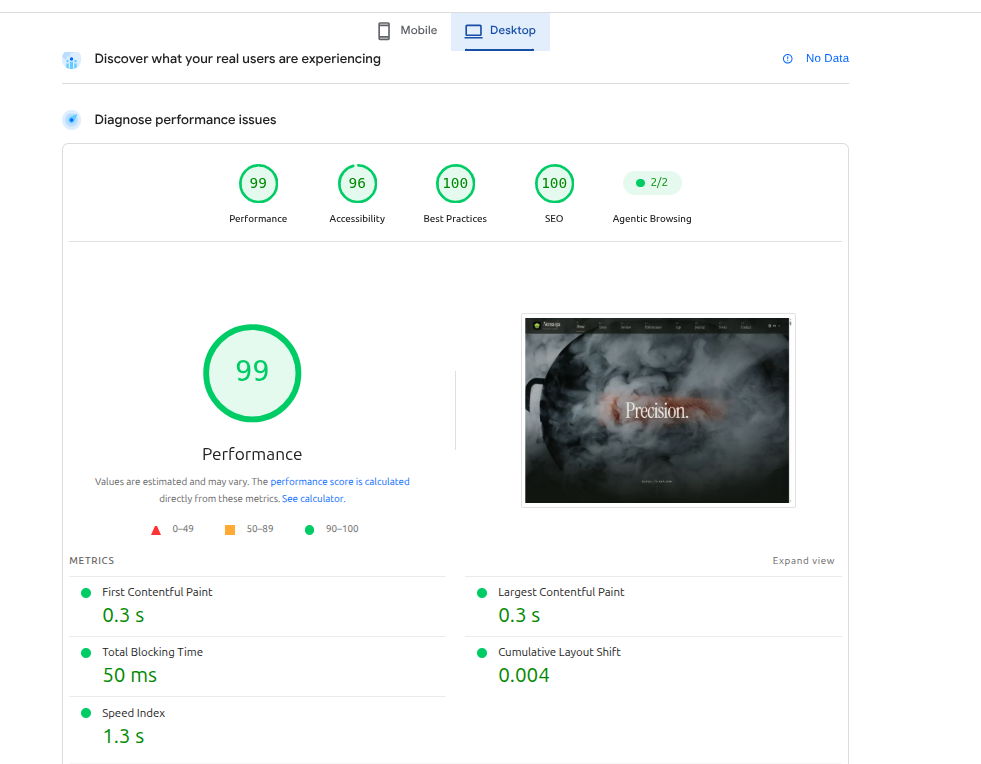
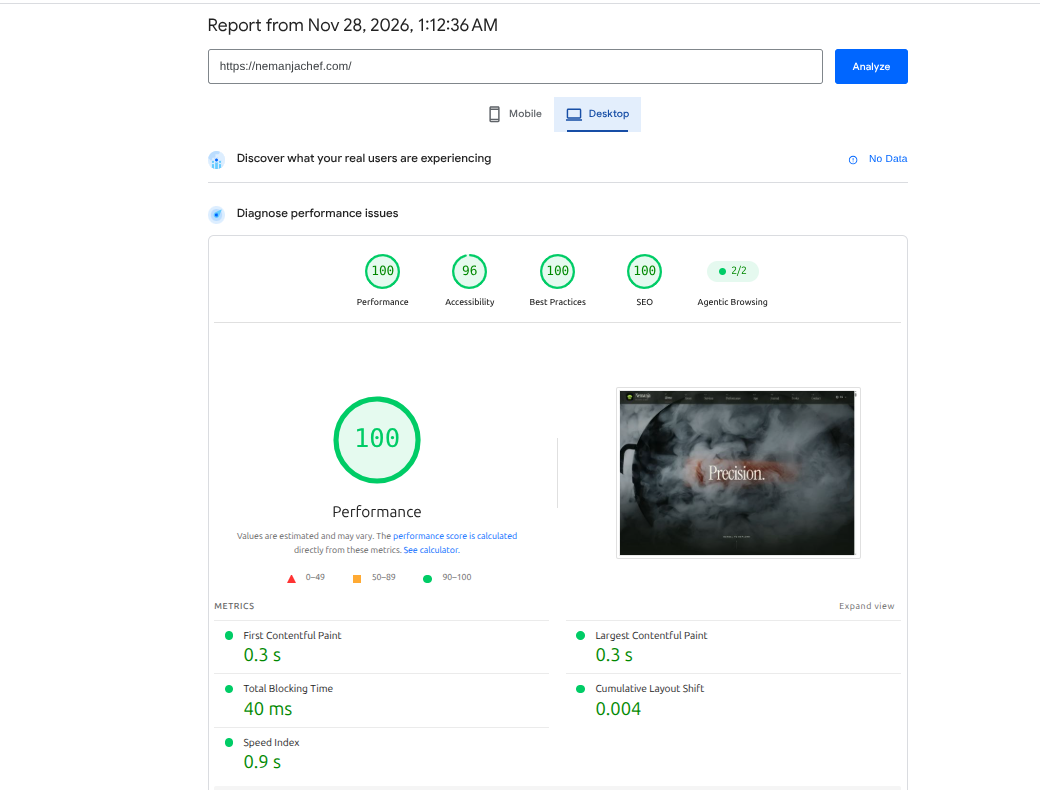
Update production Lighthouse benchmarks and screenshots

diff --git a/README.md b/README.md
@@ -22,7 +22,7 @@ An immersive digital experience combining scroll-driven visual narratives, custo
 ## Production Performance
 
 ![Desktop Performance](https://img.shields.io/badge/Desktop_Performance-100-00C853?style=for-the-badge)
-![Mobile Performance](https://img.shields.io/badge/Mobile_Performance-94-00C853?style=for-the-badge)
+![Mobile Performance](https://img.shields.io/badge/Mobile_Performance-97-00C853?style=for-the-badge)
 
 The website underwent a dedicated performance engineering phase focused on critical rendering, JavaScript execution, animation lifecycle management and progressive asset delivery.
 
@@ -35,24 +35,24 @@ The website underwent a dedicated performance engineering phase focused on criti
 
 | Metric | Desktop | Mobile |
 |---|---:|---:|
-| Performance | 100 | 94 |
+| Performance | 100 | 97 |
 | Accessibility | 96 | 95 |
 | Best Practices | 100 | 100 |
 | SEO | 100 | 100 |
 | First Contentful Paint | 0.3 s | 1.0 s |
 | Largest Contentful Paint | 0.3 s | 1.0 s |
-| Total Blocking Time | 40 ms | 240 ms |
+| Total Blocking Time | 40 ms | 180 ms |
 | Cumulative Layout Shift | 0.004 | 0.002 |
-| Speed Index | 1.0 s | 3.7 s |
+| Speed Index | 0.9 s | 2.4 s |
 
 ### Before & After Optimization
 
 | Metric | Before | After | Improvement |
 |---|---:|---:|---:|
 | Desktop Performance | 66 | 100 | +34 points |
-| Mobile Performance | 83 | 94 | +11 points |
+| Mobile Performance | 83 | 97 | +14 points |
 | Desktop TBT | 1,000 ms | 40 ms | 96% reduction |
-| Mobile TBT | 640 ms | 240 ms | 62.5% reduction |
+| Mobile TBT | 640 ms | 180 ms | 71.9% reduction |
 | Desktop LCP | 0.4 s | 0.3 s | 25% reduction |
 | Mobile LCP | 1.5 s | 1.0 s | 33.3% reduction |
 
